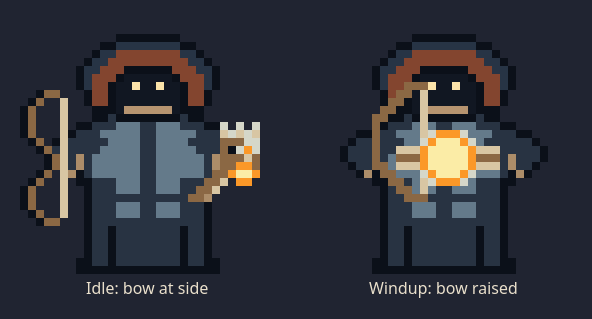
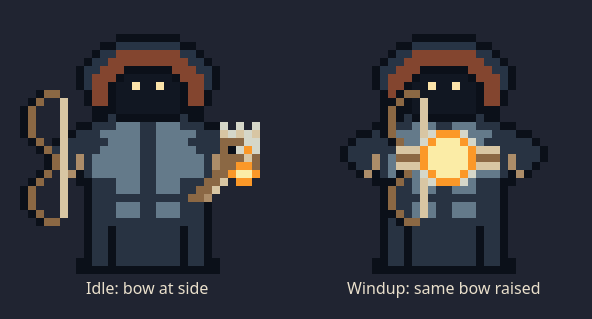
Keep one bow silhouette across elemental archer poses

diff --git a/src/art/enemies-elemental.ts b/src/art/enemies-elemental.ts
@@ -16,7 +16,7 @@ const ARCHER_HALF = rows(`
   .......kbcckmmvm
   ........kcckmmmm
   ........kcckmmmm
-  .........kkkmfff
+  .........kkkmmmm
   .........kkdkkkk
   .......kkdddeeed
   .....kkdddeeeeed
@@ -40,12 +40,12 @@ const ARCHER_HALF = rows(`
 `);
 const ARCHER_PAL = {
   k: '#0b1019', b: '#273445', c: '#506476', d: '#283342', e: '#647a8a',
-  m: '#111722', f: '#b69470', g: '#ac8d69', v: '#ffe6abfa',
+  m: '#111722', g: '#ac8d69', v: '#ffe6abfa',
   a: '#8b6844', s: '#d8c6a3', t: '#d5d7c9',
 };
-// Slack on the left in idle; raised in front of the chest when drawing. The
-// bow itself changes position and curve, rather than just the glowing arrow.
-const BOW_IDLE = rows(`
+// The same recurved bow is carried at the side and raised into the shot.
+// Keeping its pixels identical across frames makes the movement legible.
+const BOW = rows(`
   ..kaa..
   .ka..s.
   ka...s.
@@ -63,23 +63,6 @@ const BOW_IDLE = rows(`
   ka...s.
   .ka..s.
   ..kaa..
-`);
-const BOW_DRAWN = rows(`
-  ....aaa....
-  ...aa.s....
-  ..aa..s....
-  .aa...s....
-  aa....s....
-  a.....s....
-  a.....s....
-  a.....s....
-  a.....s....
-  a.....s....
-  aa....s....
-  .aa...s....
-  ..aa..s....
-  ...aa.s....
-  ....aaa....
 `);
 const QUIVER = rows(`
   t.t.t
@@ -123,8 +106,8 @@ const TIP_DRAWN = rows(`
   ..GGG..
 `);
 const bodyArcher = sym(ARCHER_HALF);
-const idleArcher = stamp(stamp(stamp(bodyArcher, QUIVER, 25, 13), BOW_IDLE, 0, 9), HELD_ARROW, 21, 15);
-const attackArcher = stamp(stamp(bodyArcher, BOW_DRAWN, 7, 8), DRAWN_ARROW, 10, 14);
+const idleArcher = stamp(stamp(stamp(bodyArcher, QUIVER, 25, 13), BOW, 0, 9), HELD_ARROW, 21, 15);
+const attackArcher = stamp(stamp(bodyArcher, BOW, 8, 9), DRAWN_ARROW, 10, 14);
 
 const ELEMENTS = [
   { sprite: 'cinder', tip: '#ff9a28fa', core: '#fff0a8fa', trim: '#83452f' },
